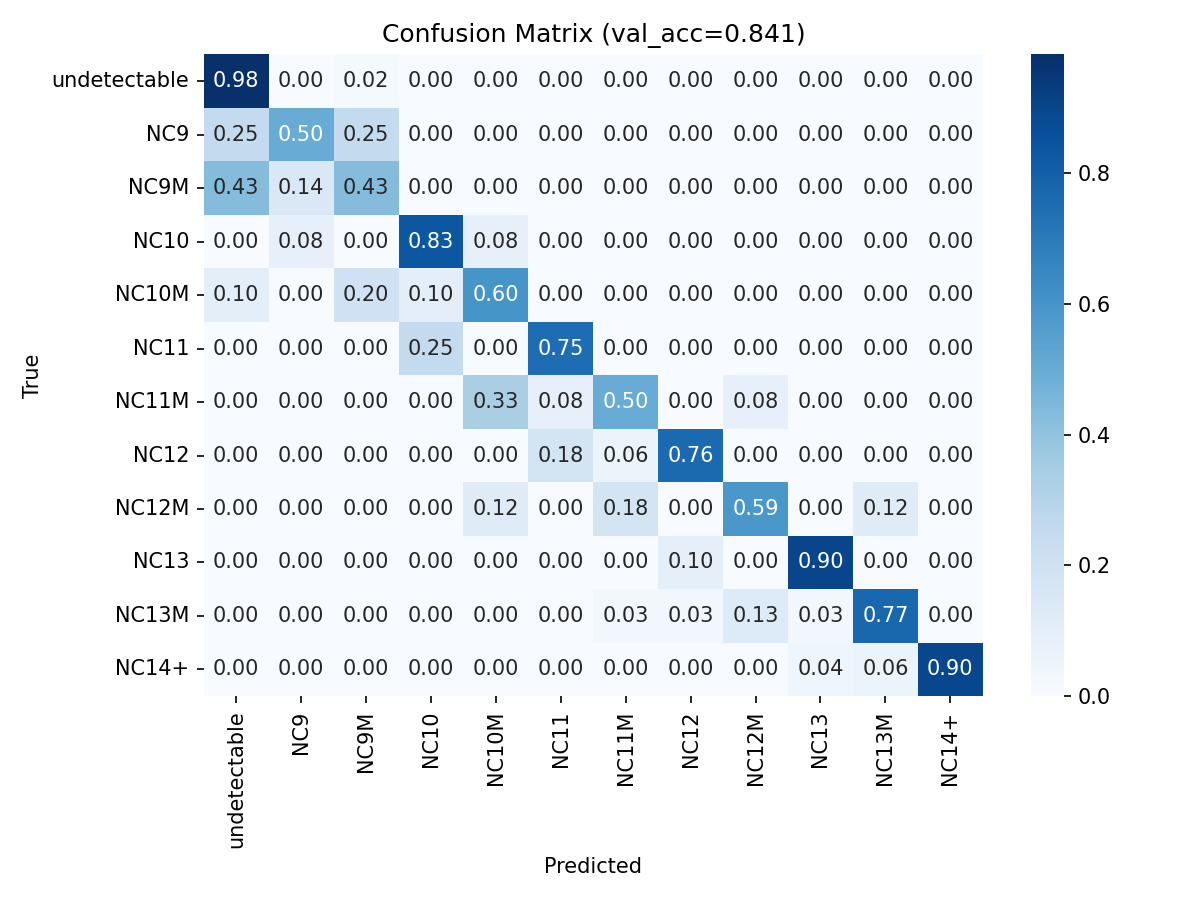
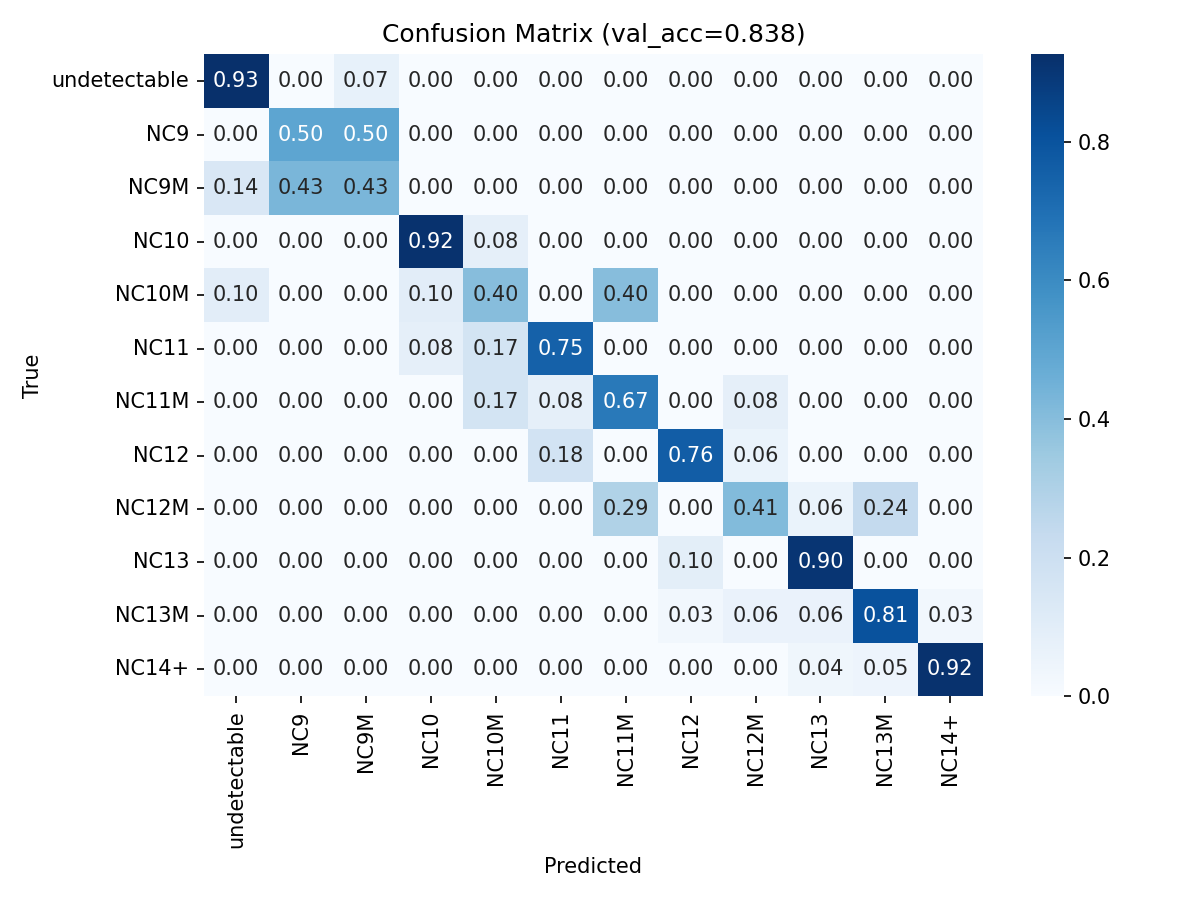
Embryo extraction

diff --git a/src/processing/extract_embryo.py b/src/processing/extract_embryo.py
@@ -1,0 +1,81 @@
+from pathlib import Path
+import sys
+
+import cv2
+import numpy as np
+import tifffile
+from cellpose import models
+from cellpose.transforms import convert_image
+
+
+CELLPOSE_MODEL = "embryomodel"
+OUTPUT_SIZE = (800, 800)
+
+def _segment_frame(model, frame: np.ndarray, segment_size=(100, 100)) -> np.ndarray:
+    norm = cv2.normalize(frame, None, 0, 255, cv2.NORM_MINMAX).astype(np.uint8)
+    clahe = cv2.createCLAHE(clipLimit=2.0, tileGridSize=(8, 8))
+    enhanced = clahe.apply(norm)
+    # small = cv2.resize(frame, segment_size)
+    small = cv2.resize(enhanced, segment_size)
+    transformed = convert_image(small)
+    masks = model.eval(transformed, normalize=True)[0]
+
+    if masks.max() == 0:
+        print('No mask found')
+        return np.zeros(frame.shape[:2], dtype=bool)
+    
+    labels, counts = np.unique(masks[masks > 0], return_counts=True)
+    biggest = labels[np.argmax(counts)]
+    big_mask = cv2.resize((masks == biggest).astype(np.float32), (frame.shape[1], frame.shape[0])) > 0.5
+    return big_mask
+
+def extract_embryo(input_path: Path | np.ndarray, output_path: Path | None = None, gpu: bool = True) -> np.ndarray:
+    if isinstance(input_path, np.ndarray):
+        stack = input_path
+    else:
+        stack = tifffile.imread(input_path)
+        print(f"Loaded {input_path.name}: {stack.shape}, dtype={stack.dtype}")
+
+    single_frame = stack.ndim == 2
+    if single_frame:
+        stack = stack[np.newaxis]
+
+    print("Loading Cellpose model")
+    model = models.CellposeModel(gpu=gpu, pretrained_model=CELLPOSE_MODEL)
+
+    mask = None
+    for i, frame in enumerate(stack):
+        print(f"Segmenting frame {i}")
+        candidate = _segment_frame(model, frame)
+        if not candidate.any():
+            continue
+        mask = candidate
+        break
+
+    if mask is None:
+        raise RuntimeError("Cellpose found no embryo in any frame.")
+
+    out_frames = [(frame * mask) for frame in stack]
+
+    result = np.stack(out_frames, axis=0)
+    if single_frame:
+        resized_result = cv2.resize(result[0], OUTPUT_SIZE)
+    else:
+        resized_result = np.stack([cv2.resize(f, OUTPUT_SIZE) for f in result], axis=0)
+
+    if output_path is not None:
+        tifffile.imwrite(output_path, resized_result, imagej=True)
+        print(f"Saved at {output_path} shape={resized_result.shape}")
+
+    return resized_result
+
+
+if __name__ == "__main__":
+    if len(sys.argv) < 2:
+        print(__doc__)
+        sys.exit(1)
+
+    inp = Path(sys.argv[1])
+    out = Path(sys.argv[2]) if len(sys.argv) > 2 else inp.with_stem(inp.stem + "_extracted")
+
+    extract_embryo(inp, out)

diff --git a/src/classification/hmm_design3/hmm_classifier.py b/src/classification/hmm_design3/hmm_classifier.py
@@ -8,35 +8,41 @@ import seaborn as sns
 import tifffile
 import torch
 import torch.nn as nn
-from embryo_video import embryo_video
 from pathlib import Path
+import sys
 import yaml
-        
-        
+
+sys.path.insert(0, str(Path(__file__).resolve().parents[2]))
+
 from cnn_classifier import cnn_classifier
+from embryo_video import embryo_video
+from processing.extract_embryo import extract_embryo
 
 
 class NeuralHMM:
 
     STATES = ['undetectable', 'NC9', 'NC9M', 'NC10', 'NC10M', 'NC11', 'NC11M', 'NC12', 'NC12M', 'NC13', 'NC13M', 'NC14+']
 
-    def __init__(self, data_dir, device, window_size, preprocess_data=True):
+    def __init__(self, data_dir, device, window_size, preprocess_images=False):
         self.data_dir = data_dir
         self.device = device
         self.n_states = len(self.STATES)
         self.window_size = window_size
-        if preprocess_data:
+        if preprocess_images:
             self.process_training_data()
-        self.load_embryo_videos()
+        self.load_embryo_videos(processed=preprocess_images)
         self.cnn = cnn_classifier(self.device, window_size, self.STATES)
         self.hidden_size = self.cnn.get_hidden_size()
         self.linear_layer = nn.Linear(self.hidden_size, self.n_states)
     
-    def load_embryo_videos(self):
+    def load_embryo_videos(self, processed):
         yaml_data = self._load_annotations()
         self.vids = []
         for embryo in yaml_data:
-            vid_path = Path(self.data_dir, 'labeled_tifs', f'{embryo}.tif')
+            if processed:
+                vid_path = Path(self.data_dir, 'processed_tifs', f'{embryo}.tif')
+            else:
+                vid_path = Path(self.data_dir, 'labeled_tifs', f'{embryo}.tif')
             self.vids.append(embryo_video(yaml_data[embryo], vid_path, self.STATES, window_size=self.window_size, img_size=(800, 800)))
 
     def _load_annotations(self) -> dict:
@@ -96,13 +102,13 @@ class NeuralHMM:
             self.vids, test_size=0.2, random_state=42
         )
 
-        #self.cnn.train_model(train_vids, val_vids, best_model_path='models/best_hmm_cnn.pt', epochs=10, batch_size=16)
-        self.cnn.load_from_path('models/best_hmm_cnn.pt')
+        self.cnn.train_model(train_vids, val_vids, best_model_path='models/best_hmm_cnn.pt', epochs=10, batch_size=16)
+        #self.cnn.load_from_path('models/best_hmm_cnn.pt')
         self.cnn.evaluate(val_vids)
         self._train_duration_model(train_vids)
         self.evaluate(val_vids)
 
-    def evaluate_sample(self, vid, ax=None):
+    def _evaluate_sample(self, vid, ax=None):
         print(f'Inferring for sample {vid.vid_path}')
         current_state = None
         frames_in_state = 0
@@ -200,7 +206,7 @@ class NeuralHMM:
         axes = axes.flatten()
 
         for vid_idx, vid in enumerate(val_vids):
-            labels, preds, cnn_preds = self.evaluate_sample(vid, ax=axes[vid_idx])
+            labels, preds, cnn_preds = self._evaluate_sample(vid, ax=axes[vid_idx])
 
             all_labels.extend(labels.tolist())
             all_preds.extend(preds.tolist())
@@ -247,21 +253,19 @@ class NeuralHMM:
         vid = tifffile.open(video_path)
         # Need to make predictions on an embryo video without labels
     
+    def predict_frame(self):
+        pass
+    
     def process_training_data(self):
-        # Copy raw data into processed directory
+        processed_dir = Path(self.data_dir, 'processed_tifs')
+        processed_dir.mkdir(parents=True, exist_ok=True)
+
         yaml_data = self._load_annotations()
-        yaml_path = Path(self.data_dir, 'labels.yaml')
-        shutil.copy(yaml_path, Path(self.data_dir, 'processed', 'labels.yaml'))
 
         for embryo in yaml_data:
-            vid = tifffile.imread(Path(self.data_dir, 'labeled_tifs', f'{embryo}.tif'))
-            # Segment out the embryo
-            
-            # Paste on blank background
-            
-            # Save in processed directory
-            destination_path = Path(self.data_dir, 'processed', f'{embryo}.tif')
-            destination_path.mkdir(parents=True, exist_ok=True)
+            vid_path = tifffile.imread(Path(self.data_dir, 'labeled_tifs', f'{embryo}.tif'))
+            output_path = processed_dir / f'{embryo}.tif'
+            extract_embryo(vid_path, output_path=output_path)
             
 
 if __name__ == '__main__':
@@ -273,6 +277,6 @@ if __name__ == '__main__':
         else 'cpu'
     )
     print(f'Using device: {DEVICE}')
-    classifier = NeuralHMM('data/hmm_tifs', DEVICE, window_size=1, preprocess_data=True)
+    classifier = NeuralHMM('data/hmm_tifs', DEVICE, window_size=1)
 
     classifier.train_hmm()